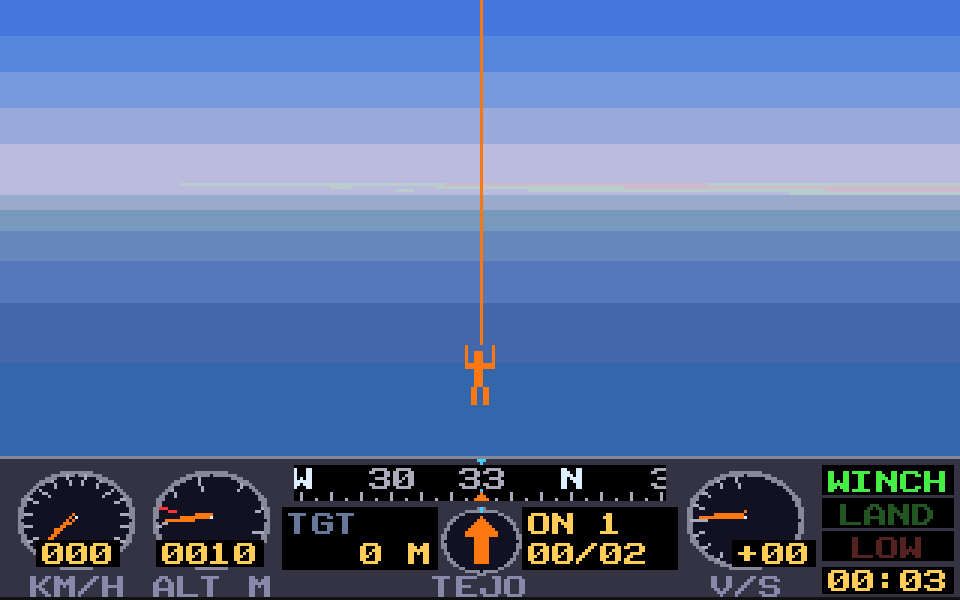
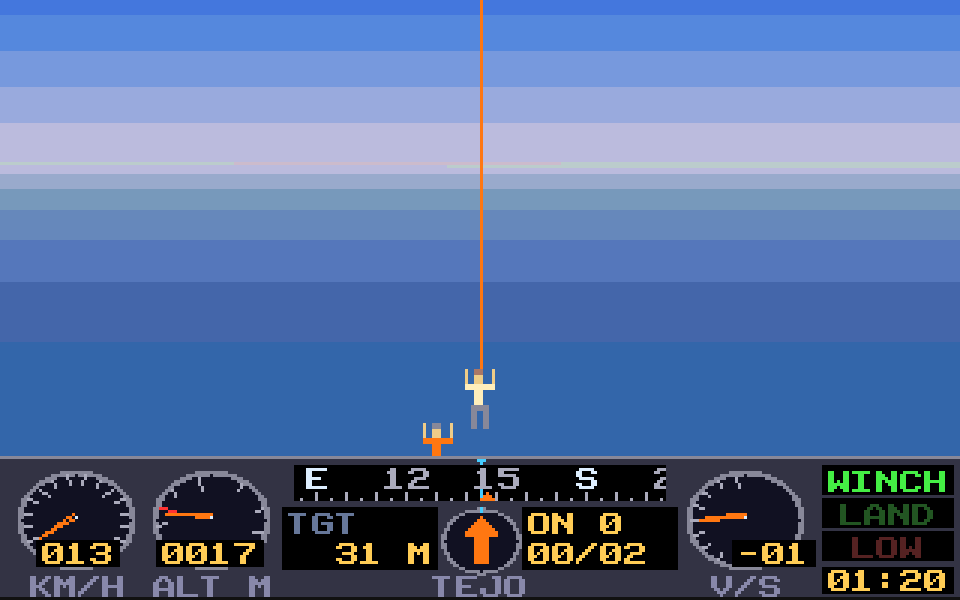
GAIVOTA: new screenshots (people in colour, trees, the boat, the base), the menu's T for trees

diff --git a/Gaivota/index.html b/Gaivota/index.html
@@ -328,7 +328,7 @@
 <section class="hero">
     <div class="container">
         <div class="hero-grid">
-            <div class="bezel"><img class="px" src="screens/porto-winch.png" alt="GAIVOTA in Porto: a man on the winch cable, three more waiting on a flooded roof, the Ponte Luiz I behind; the panel below shows WINCH lit" width="960" height="600"></div>
+            <div class="bezel"><img class="px" src="screens/porto-winch.png" alt="GAIVOTA in Porto: a man in a green shirt on the winch cable, two more waiting on a flooded roof, the Ponte Luiz I behind; the panel below shows WINCH lit" width="960" height="600"></div>
             <div>
                 <div class="kicker">Call sign Gaivota</div>
                 <h1>Fly out to the smoke. <span>Bring them home.</span></h1>
@@ -388,7 +388,7 @@
                 <span class="lamp on">WINCH</span>
                 <h3>Hover low and slow</h3>
                 <p>Come down by the smoke and slow to a hover: WINCH lights up, the cable goes down and they come up one at a time. Six seats; Porto has ten on its roofs.</p></div></div>
-            <div class="step"><img class="px" src="screens/all-safe.png" alt="The end screen: ALL SAFE - WELL FLOWN, two saved in 3 minutes 10" loading="lazy"><div>
+            <div class="step"><img class="px" src="screens/all-safe.png" alt="The end screen: ALL SAFE - WELL FLOWN, two saved in 2 minutes 58, standing by the base's hangar" loading="lazy"><div>
                 <span class="lamp on">LAND</span>
                 <h3>Land softly at the base</h3>
                 <p>Near the base LAND lights up. Touch down gently, under 5 m/s down and 12 m/s forward, and they get out. Soft on the water and you ditch; hard, and you crash.</p></div></div>
@@ -420,7 +420,7 @@
                     <div class="say"><b>FREE FLIGHT</b>FLY WHERE YOU LIKE - THE SMOKE IS HOME</div>
                     <dl><div><dt>START</dt><dd>300 M</dd></div><div><dt>PEOPLE</dt><dd>-</dd></div><div><dt>TIME</dt><dd>-</dd></div></dl>
                     <p>You start over the Tejo by Bel&eacute;m. Fly the coast, follow the rivers inland, see the bridges; the smoke at the Torre de Bel&eacute;m is home.</p></article>
-                <article class="brief" data-m="2" hidden><img class="px" src="screens/tejo.png" alt="A sailor coming up on the winch cable over the Tejo" loading="lazy">
+                <article class="brief" data-m="2" hidden><img class="px" src="screens/tejo.png" alt="A sailor coming up on the winch cable over the Tejo, the other still in the water in a life vest" loading="lazy">
                     <div class="say"><b>TEJO: A DINGHY CAPSIZED OFF BEL&Eacute;M</b>TWO SAILORS IN THE WATER</div>
                     <dl><div><dt>START</dt><dd>BASE</dd></div><div><dt>PEOPLE</dt><dd>2</dd></div><div><dt>TIME</dt><dd>TRAINING</dd></div></dl>
                     <p>The training mission: lift off, find the smoke on the river, winch both sailors out of the water and bring them back. No clock.</p></article>
@@ -428,11 +428,11 @@
                     <div class="say"><b>NAZAR&Eacute;: THE BIG WAVES ARE BACK</b>THREE SURFERS ARE IN TROUBLE</div>
                     <dl><div><dt>START</dt><dd>BASE</dd></div><div><dt>PEOPLE</dt><dd>3</dd></div><div><dt>TIME</dt><dd>6:00</dd></div></dl>
                     <p>Three surfers in the foam north of the fort and its red lighthouse. The shortest clock of all.</p></article>
-                <article class="brief" data-m="4" hidden><img class="px" src="screens/peniche.png" alt="Four fishermen on the deck of their sinking boat, one on the winch" loading="lazy">
+                <article class="brief" data-m="4" hidden><img class="px" src="screens/peniche.png" alt="Fishermen on the deck of their sinking boat, one on the winch" loading="lazy">
                     <div class="say"><b>PENICHE: A FISHING BOAT IS SINKING</b>ON THE WAY TO THE BERLENGAS</div>
                     <dl><div><dt>START</dt><dd>BASE</dd></div><div><dt>PEOPLE</dt><dd>5</dd></div><div><dt>TIME</dt><dd>11:30</dd></div></dl>
                     <p>Out past Cabo Carvoeiro and its lighthouse, a boat going down with five aboard: the hull sinks as the clock runs, and then they are in the water.</p></article>
-                <article class="brief" data-m="5" hidden><img class="px" src="screens/leiria.png" alt="Smoke and flames over the pine forest near Leiria" loading="lazy">
+                <article class="brief" data-m="5" hidden><img class="px" src="screens/leiria.png" alt="Smoke and flames over the pine forest near Leiria, a stone pine in front" loading="lazy">
                     <div class="say"><b>LEIRIA: THE PINE FOREST IS ON FIRE</b>PEOPLE ARE CUT OFF BY THE FLAMES</div>
                     <dl><div><dt>START</dt><dd>BASE</dd></div><div><dt>PEOPLE</dt><dd>3 + 2</dd></div><div><dt>TIME</dt><dd>13:00</dd></div></dl>
                     <p>Two groups cut off in the pines between Leiria and the sea. Follow the black smoke.</p></article>
@@ -612,7 +612,7 @@
             <figure><img class="px" src="screens/arrabida.png" alt="" loading="lazy"><figcaption><b>The Arr&aacute;bida</b>: under its arch or over its deck.</figcaption></figure>
             <figure><img class="px" src="screens/douro.png" alt="" loading="lazy"><figcaption><b>The Douro</b> from 300 m, smoke over the roofs.</figcaption></figure>
             <figure><img class="px" src="screens/leiria.png" alt="" loading="lazy"><figcaption><b>Leiria:</b> the pines are burning.</figcaption></figure>
-            <figure><img class="px" src="screens/menu.png" alt="" loading="lazy"><figcaption><b>The menu:</b> six missions, and L for the landmarks.</figcaption></figure>
+            <figure><img class="px" src="screens/menu.png" alt="" loading="lazy"><figcaption><b>The menu:</b> six missions, L for the landmarks, T for the trees.</figcaption></figure>
             <figure><img class="px" src="screens/brief.png" alt="" loading="lazy"><figcaption><b>The brief</b>, before the clock starts.</figcaption></figure>
             <figure><img class="px" src="screens/all-safe.png" alt="" loading="lazy"><figcaption><b>All safe:</b> your time, and your best.</figcaption></figure>
         </div>
